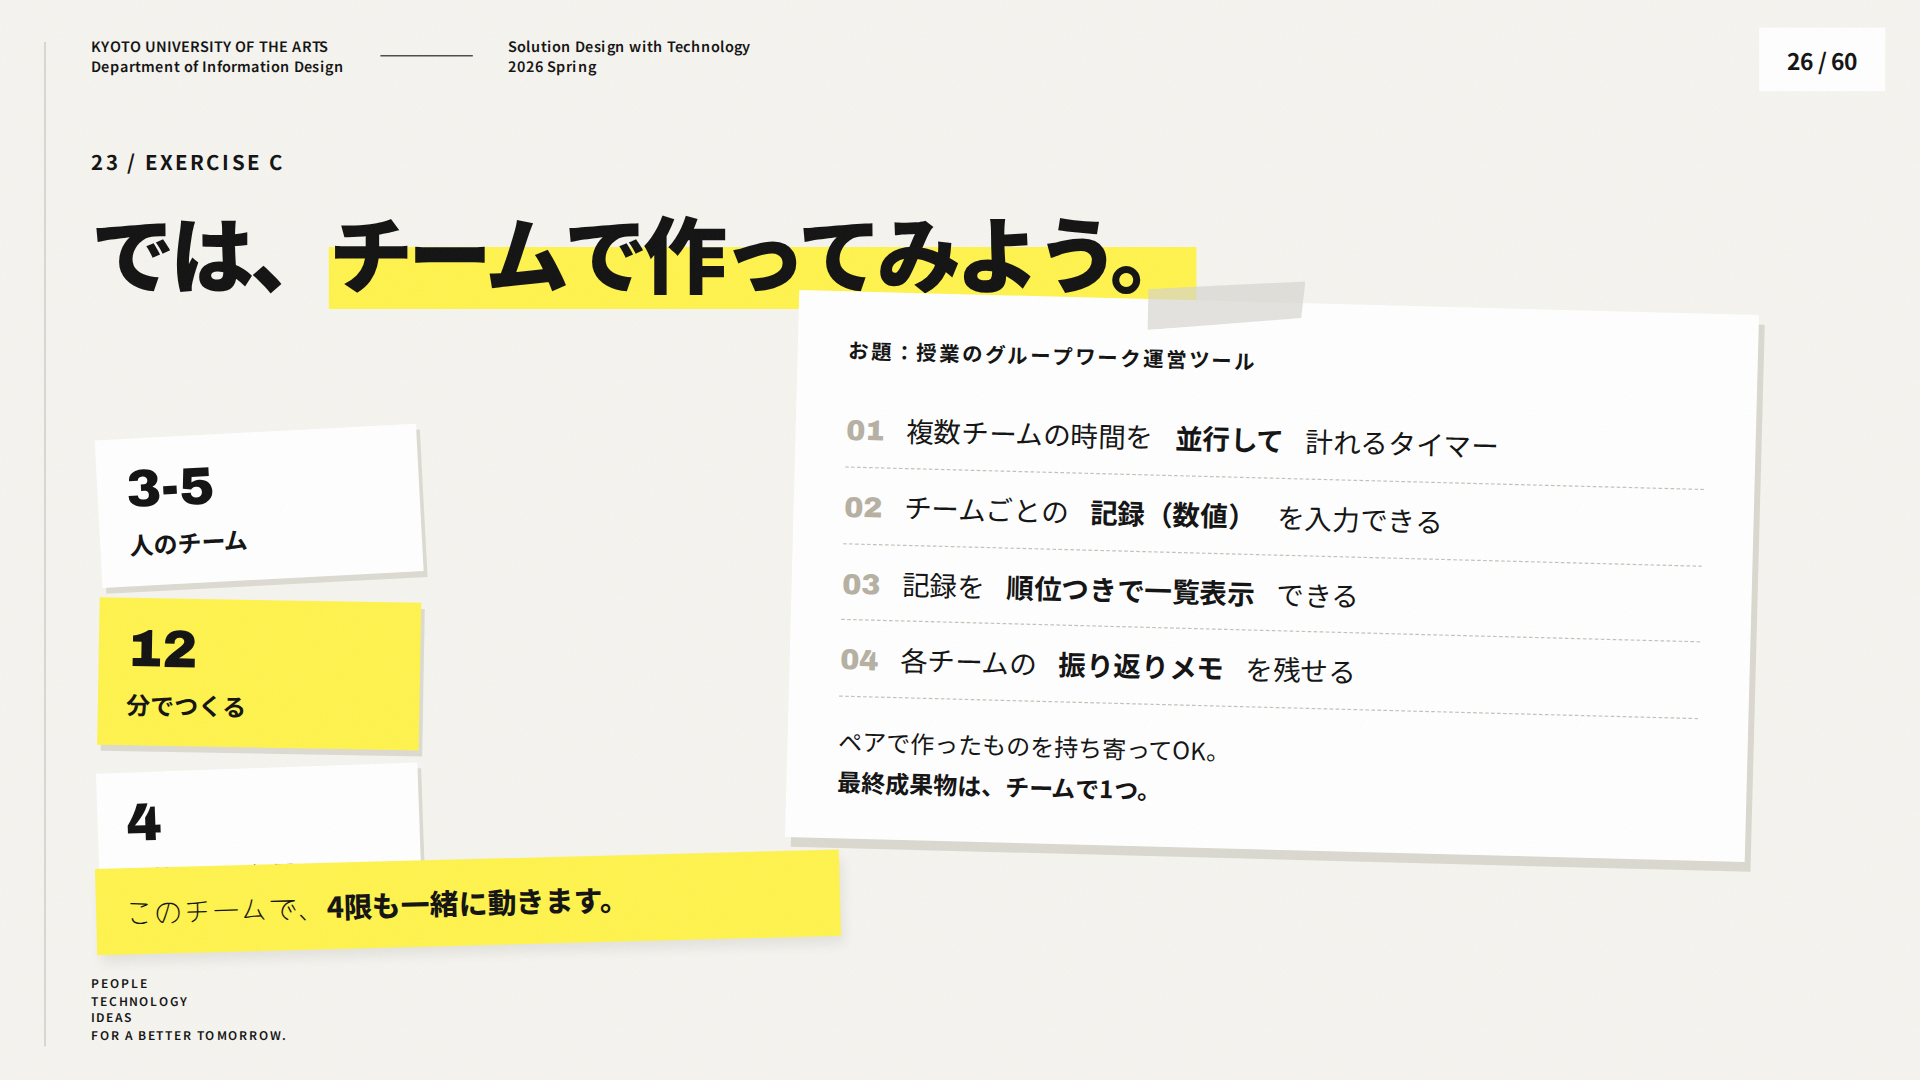
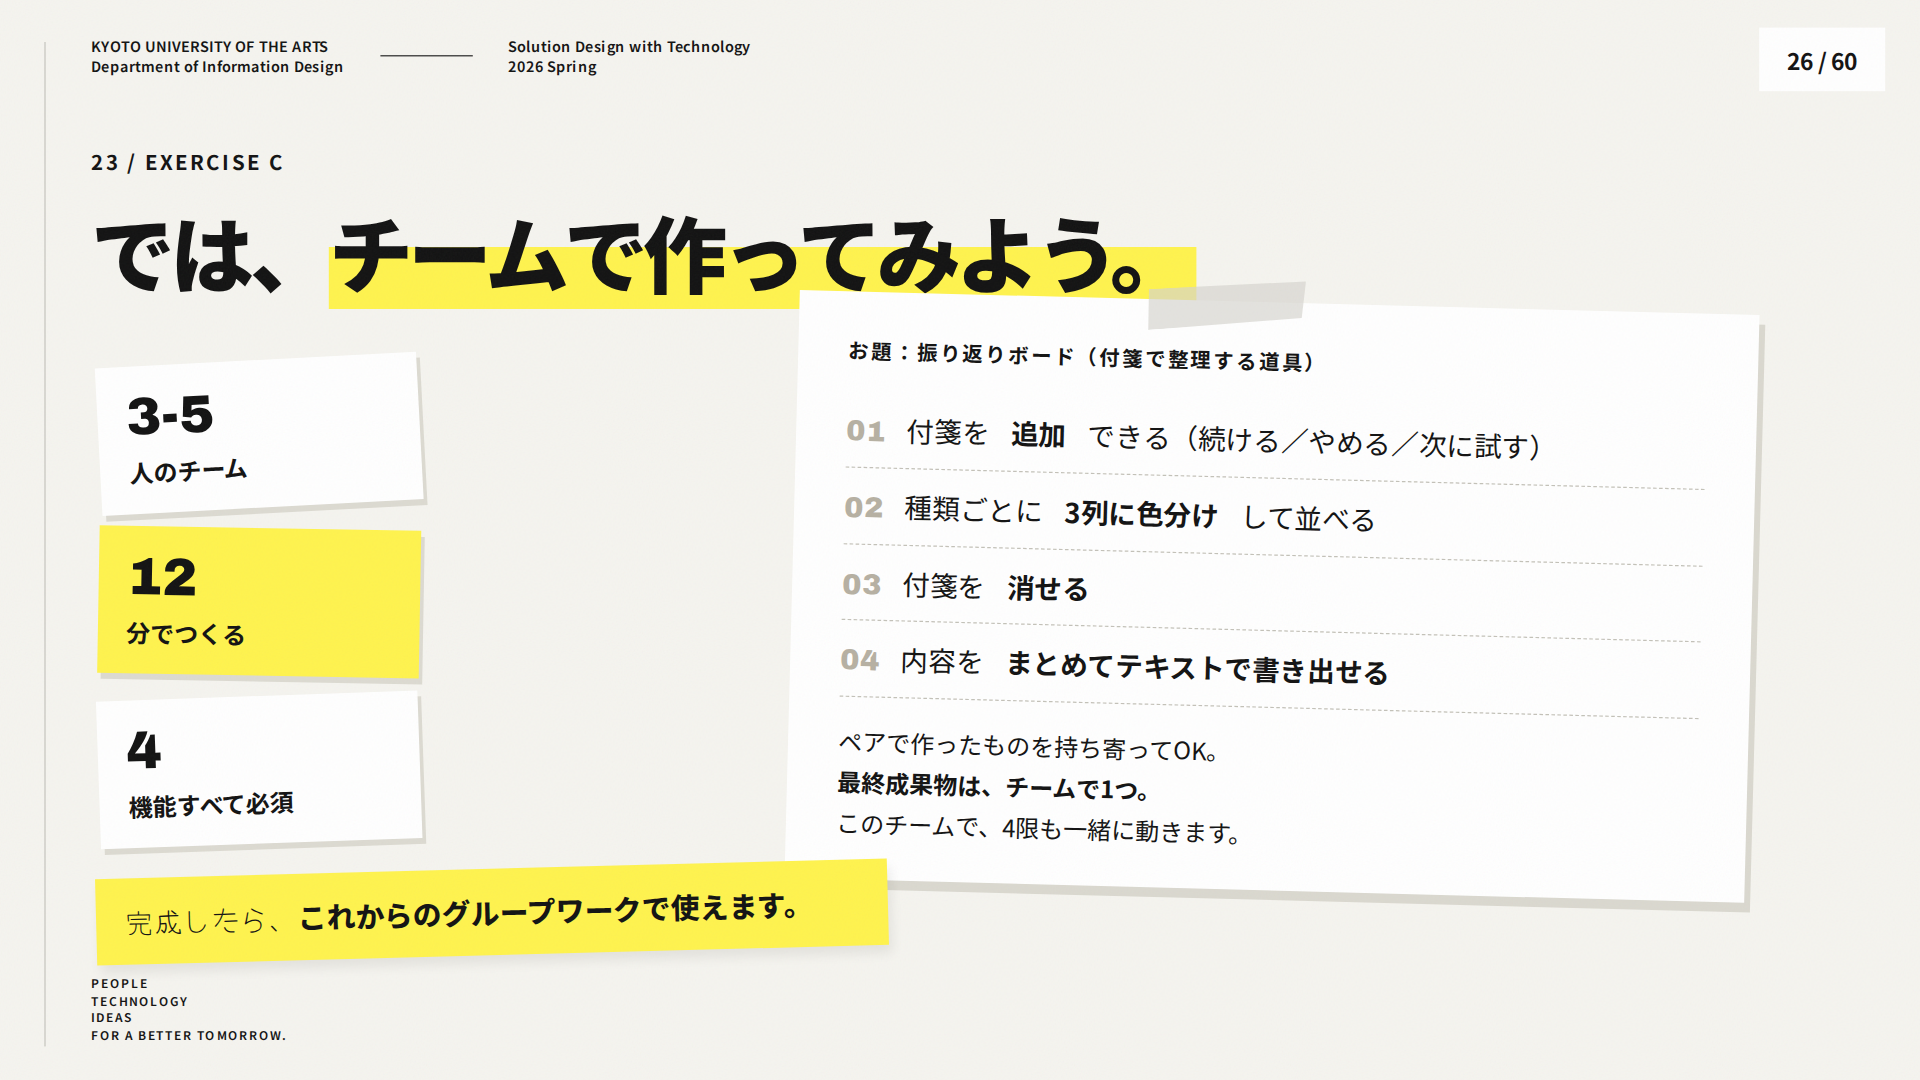
Change the exercise C topic to a retrospective board
演習Cのお題を「授業のグループワーク運営ツール」から「振り返りボード」に変更。演習A・Bのタイマーと題材が重なっていたため。

- 必須4機能: 付箋の追加（続ける／やめる／次に試す）、種類ごとの3列色分け、削除、テキストでの書き出し
- 付箋データの持ち方が全員共通になるため、各自の画面で作って持ち寄ると統合で必ずぶつかる（演習Cの狙い）
- 完成したものは、以降のグループワークで実際に使える

4限の進行を演習Cの成果物から切り離した。

- 4限の計時は講師が行う（従来は「演習Cで学生が作ったツールを使う」としていた）
- 振り返り#1は紙かふせんのまま。演習Cが未完成でも4限は成立する
- 完成したチームが自分たちで使うのは自由とし、進行上は前提にしない

diff --git a/2026/2_software_development_methodology_agile/slides/index.html b/2026/2_software_development_methodology_agile/slides/index.html
@@ -245,11 +245,11 @@
 <div class="note yellow at" style="left:80px;top:700px;width:1010px;font-size:25px;transform:rotate(-1deg);padding:16px 26px">この演習で体験したのは、<strong>要求を共有し、記録し、確認する意味</strong>です。</div>
 <footer class="identity-bottom">PEOPLE<br>TECHNOLOGY<br>IDEAS<br>FOR A BETTER TOMORROW.</footer></section><section class="slide exercise-c" data-title="では、チームで作ってみよう。" aria-label="スライド：では、チームで作ってみよう。" hidden><header class="identity"><div>KYOTO UNIVERSITY OF THE ARTS<br>Department of Information Design</div><span class="identity-line"></span><div>Solution Design with Technology<br>2026 Spring</div></header><div class="page-tag">26 / 60</div>
 <div class="eyebrow at" style="left:76px;top:122px">23 / EXERCISE C</div><h1 class="at" style="left:76px;top:164px;font-size:70px">では、<mark>チームで作ってみよう。</mark></h1>
-<div class="specsheet"><span class="tape"></span><div class="eyebrow">お題：授業のグループワーク運営ツール</div><ol class="feat"><li><b>01</b>複数チームの時間を<strong>並行して</strong>計れるタイマー</li><li><b>02</b>チームごとの<strong>記録（数値）</strong>を入力できる</li><li><b>03</b>記録を<strong>順位つきで一覧表示</strong>できる</li><li><b>04</b>各チームの<strong>振り返りメモ</strong>を残せる</li></ol><p class="feat-note">ペアで作ったものを持ち寄ってOK。<br><strong>最終成果物は、チームで1つ。</strong></p></div>
+<div class="specsheet"><span class="tape"></span><div class="eyebrow">お題：振り返りボード（付箋で整理する道具）</div><ol class="feat"><li><b>01</b>付箋を<strong>追加</strong>できる（続ける／やめる／次に試す）</li><li><b>02</b>種類ごとに<strong>3列に色分け</strong>して並べる</li><li><b>03</b>付箋を<strong>消せる</strong></li><li><b>04</b>内容を<strong>まとめてテキストで書き出せる</strong></li></ol><p class="feat-note">ペアで作ったものを持ち寄ってOK。<br><strong>最終成果物は、チームで1つ。</strong><br>このチームで、4限も一緒に動きます。</p></div>
 <div class="brief-chip chip-c1"><b>3-5</b><span>人のチーム</span></div>
 <div class="brief-chip chip-c2"><b>12</b><span>分でつくる</span></div>
 <div class="brief-chip chip-c3"><b>4</b><span>機能すべて必須</span></div>
-<div class="note yellow at" style="left:80px;top:716px;width:620px;font-size:24px;transform:rotate(-1.5deg);padding:16px 24px">このチームで、<strong>4限も一緒に動きます。</strong></div>
+<div class="note yellow at" style="left:80px;top:724px;width:660px;font-size:24px;transform:rotate(-1.5deg);padding:16px 24px">完成したら、<strong>これからのグループワークで使えます。</strong></div>
 <footer class="identity-bottom">PEOPLE<br>TECHNOLOGY<br>IDEAS<br>FOR A BETTER TOMORROW.</footer></section>
 <section class="slide no-guide" data-title="進め方は、教えません。" aria-label="スライド：進め方は、教えません。" hidden><header class="identity"><div>KYOTO UNIVERSITY OF THE ARTS<br>Department of Information Design</div><span class="identity-line"></span><div>Solution Design with Technology<br>2026 Spring</div></header><div class="page-tag">27 / 60</div>
 <div class="eyebrow at" style="left:76px;top:122px">24 / NO INSTRUCTIONS</div><h1 class="at" style="left:76px;top:170px;font-size:88px">進め方は、<br><mark>教えません。</mark></h1>

diff --git a/2026/2_software_development_methodology_agile/slides/styles.css b/2026/2_software_development_methodology_agile/slides/styles.css
@@ -247,9 +247,9 @@ nav{display:flex;justify-content:center;align-items:center;gap:12px;padding:10px
 .specsheet .feat li{display:flex;gap:18px;align-items:baseline;font-size:23px;line-height:1.6;padding:13px 0;border-bottom:1px dashed #c3c1b8}
 .specsheet .feat b{font:24px Archivo;color:#b6b0a2}
 .feat-note{font-size:20px;line-height:1.7;margin:0}
-.chip-c1{left:82px;top:360px;transform:rotate(-3deg)}
-.chip-c2{left:82px;top:500px;transform:rotate(1deg);background:var(--yellow)}
-.chip-c3{left:82px;top:640px;transform:rotate(-2deg)}
+.chip-c1{left:82px;top:300px;transform:rotate(-3deg)}
+.chip-c2{left:82px;top:440px;transform:rotate(1deg);background:var(--yellow)}
+.chip-c3{left:82px;top:580px;transform:rotate(-2deg)}
 /* ---- 27 no guide ---- */
 .open-q{position:absolute;left:660px;top:230px;width:760px;padding:36px 40px;background:#fff;box-shadow:5px 8px 0 #dad8cf;transform:rotate(-1.5deg)}
 .open-q p{font-size:38px;font-weight:900;line-height:1.5;margin:0 0 22px;letter-spacing:-1.5px}

diff --git a/2026/2_software_development_methodology_agile/facilitator-notes.md b/2026/2_software_development_methodology_agile/facilitator-notes.md
@@ -49,7 +49,7 @@
   - 演習B: **受け入れ条件は2人で相談して同じ内容にそろえ**、実装はそれぞれ。Aより結果が近づくことを本人たちに確認させる
   - 比較表に「ペア2人の結果（似ていた／違った）」の行を用意してある
 - **利用枠の消費が人数分になる。** 無料枠のレート制限に当たる学生が出やすいので、詰まった学生はペアの画面を見る形に切り替え、演習Bは予備サンプルで受け入れ確認を続けさせる
-- 演習C（3限9節）は**チームで最終成果物1つ**。各自の画面で作ったものを持ち寄る形になるため、統合の難しさはむしろ強く出る
+- 演習C（3限9節）は**チームで最終成果物1つ**。各自の画面で作ったものを持ち寄る形になるため、統合の難しさはむしろ強く出る。付箋データの持ち方（種類の表し方）が人によって違うと必ずぶつかる
 
 ## 演習A・Bの比較と未完了時の進行
 
@@ -111,6 +111,12 @@
 - **振り返り#1（17節・10分）**では、16節の言葉（MVP・早く確かめる・役割分担・ファシリテーション）を使ってよいと明示する
 - **20節の解説（12分）**はワークショップそのものの話（TEDの知見・顧客が本当に必要だったもの・3限との対応表）。TEDの「幼稚園児」の話は**2回目が終わった後**に出す。先に言うと、伸びが「教わったから」になり、自分たちの振り返りの成果として実感できない
 - ラウンドは**公式どおり18分**を2回。3ラウンドにすると解説を10分以下に削らないと入らないため、**ラウンド数より解説を優先**している
+
+## 演習Cの成果物と4限は、切り離す
+
+- 演習Cのお題は**振り返りボード**（付箋を追加・3列に色分け・削除・テキスト書き出し）。授業で使える道具だが、**4限の進行はこれに依存させない**
+- 4限の振り返り#1は**紙かふせんで行う**。計時も講師が行う。演習Cが未完成でも、4限は何も困らない
+- 完成したチームが自分たちの画面で使うのは自由。ただし「使ってください」とは言わない（動かないチームが出ると進行が止まる）
 
 ## 配布物の渡し方（当日）
 
@@ -207,7 +213,7 @@ https://github.com/Creative-Cucumbers/solution-design-with-technology/blob/main/
 - [ ] 授業と同じOS・IDE・モデルで演習Bを通しで実測し、14分に収まるか確認する（各段階のレビュー・承認と実装待ちを含む）。WindowsだけでなくMacでも確認する
 - [ ] [演習Bの予備サンプル](./facilitator-sample/README.md)の仕様・計画・タスク・HTMLをUSBにも用意し、教室のブラウザとスピーカーで受け入れ確認を行う
 - [ ] 予備サンプルは受け入れ条件を含むため、**演習A終了後に配布する**。スターターZIPには含めない
-- [ ] 演習Cのドライラン: 別々に作った2つを持ち寄って4機能を11分でまとめようとして、**実際に詰まる**か確認する（詰まらない場合は機能を5つに増やす）
+- [ ] 演習Cのドライラン: 振り返りボードの4機能を、別々に作ったものを持ち寄って11分でまとめようとして、**実際に詰まる**か確認する（詰まらない場合は「並べ替え」を5つ目の機能として足す）
 - [ ] 当日のセットアップ状況を確認し、インストールできなかった学生はペアの画面を一緒に見る形にする。生成環境が使えない場合は予備サンプルで仕様レビューと受け入れ確認を行う
 - [ ] マシュマロチャレンジの材料を購入する（下記）
 - [ ] [setup-antigravity-ide.md](./setup-antigravity-ide.md) と [vibe-coding-first-steps.md](./vibe-coding-first-steps.md) の画面説明を実機と突き合わせる（バージョンで画面が変わるため断定を避けた書き方にしてある。**スクリーンショットを追加すると学生の詰まりが大幅に減る**）
@@ -269,7 +275,7 @@ https://github.com/Creative-Cucumbers/solution-design-with-technology/blob/main/
   - 用途②**下準備**: テープとひもを90cmずつ切り分けるときに使う（下記4）。同じものを使い回せる
 - [ ] **ホワイトボードまたは黒板** — ラウンド1と2の記録を**並べて残す**（改善した場合もしなかった場合も、変えた行動と結果を振り返る）
 - [ ] 振り返り用の紙またはふせん（1チーム10枚程度）＋太めのペン（1チーム1本）。**最大4チーム分**
-- [ ] タイマー — **3限の演習Cで学生が作ったツールを使う**（動かなければスマホのタイマーで代替）
+- [ ] タイマー — **講師がスマホ等で計る**（学生の成果物には依存させない）
 
 ### 4. 当日を速くするための下準備（推奨）
 
@@ -294,7 +300,7 @@ https://github.com/Creative-Cucumbers/solution-design-with-technology/blob/main/
 ### 5. チーム数が4になった場合の進行
 
 - **計測・結果発表（#15 / #19）は1チームあたりの持ち時間を守る**: 各8分枠なので、**3チームなら1チーム2分30秒、4チームなら1チーム2分**（計測の時間も含む）
-- 演習C（3限9節）も同じチーム数になる。お題の機能4つは**3名チームでも変えない**（分担の難しさを出すのが目的なので、むしろ効果が上がる）
+- 演習C（3限9節）も同じチーム数になる。お題（振り返りボード）の機能4つは**3名チームでも変えない**（分担の難しさを出すのが目的なので、むしろ効果が上がる）
 - 3限の受け入れ条件1つ目は「**3チーム分**の時間を同時に計れる」のまま使う（タイマーの条件であり、当日のチーム数と一致していなくても演習は成立する）。予備サンプルも3チーム分なので、授業中には条件を変更しない。変更する場合は授業前に仕様・サンプル・確認手順を揃える
 
 ### 6. 会場・衛生

diff --git a/2026/2_software_development_methodology_agile/README.md b/2026/2_software_development_methodology_agile/README.md
@@ -461,14 +461,15 @@ graph LR
 ペアを合流させて、**3〜5名のチーム**を作ります（人数によって3〜4チーム。講師が指定します）。チーム名だけ決めてください（1分）。
 
 > [!NOTE]
-> **お題: 授業のグループワーク運営ツール**
+> **お題: 振り返りボード**
 >
+> グループワークの振り返りを、付箋で整理する道具です。
 > チームで**1つ**のアプリを作ってください。機能は4つとも必須です。
 >
-> 1. 複数チームの時間を**並行して**計れるタイマー
-> 2. チームごとの**記録（数値）を入力**できる
-> 3. 記録を**順位つきで一覧表示**できる
-> 4. 各チームの**振り返りメモ**を残せる
+> 1. 付箋を**追加**できる（**続けること / やめること / 次に試すこと** のどれかを選ぶ）
+> 2. 選んだ種類ごとに、**3列に色分けして並べる**
+> 3. 付箋を**消せる**
+> 4. 書いた内容を**まとめてテキストで書き出せる**（コピーして貼れる形）
 >
 > - ペアで作ったものを持ち寄って構いません
 > - ただし**最終成果物はチームで1つ**です
@@ -477,6 +478,9 @@ graph LR
 進め方は指示しません。**役割分担、誰が決めるか、どう1つにまとめるかは、チームで決めてください。**
 
 質問されても「チームで決めてください」と答えます。
+
+> [!TIP]
+> 完成したら、これからのグループワークで実際に使えます。ブラウザだけで動き、保存はしません。
 
 ---
 
